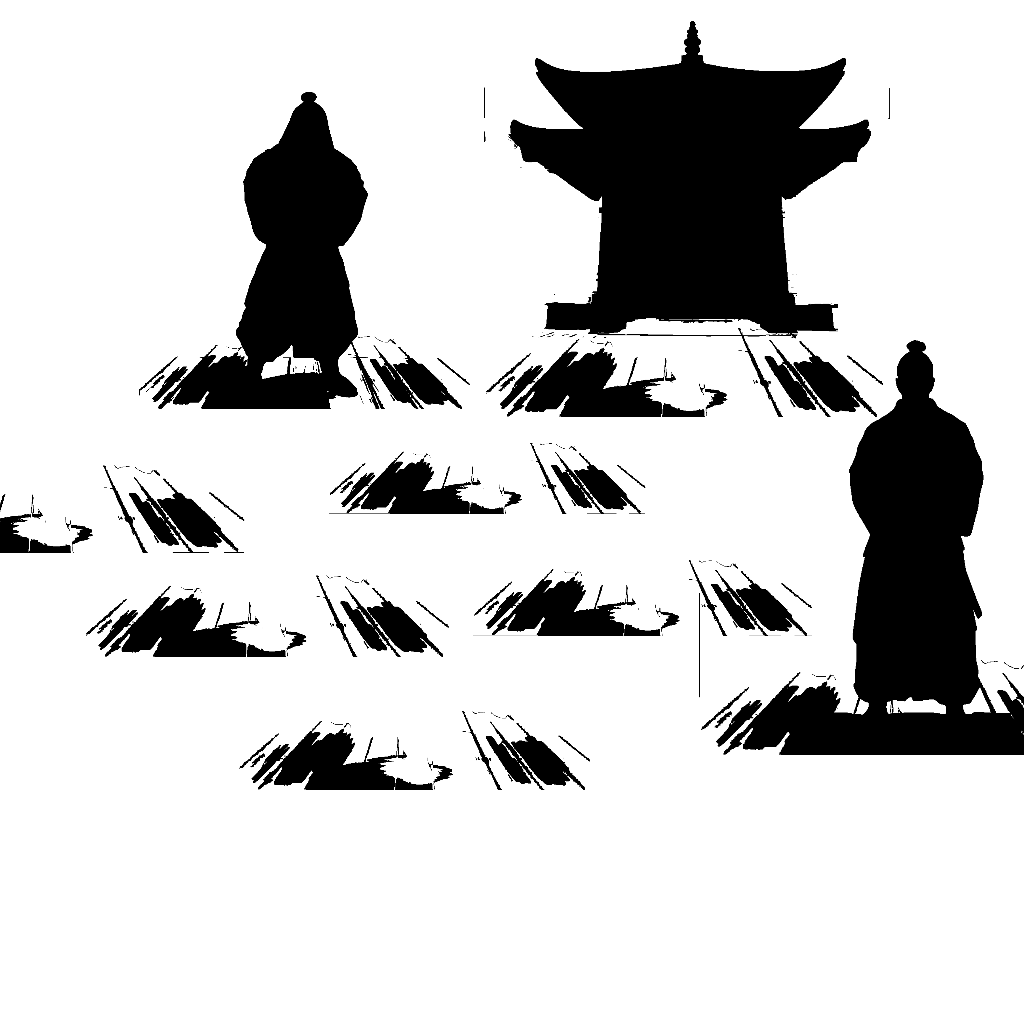
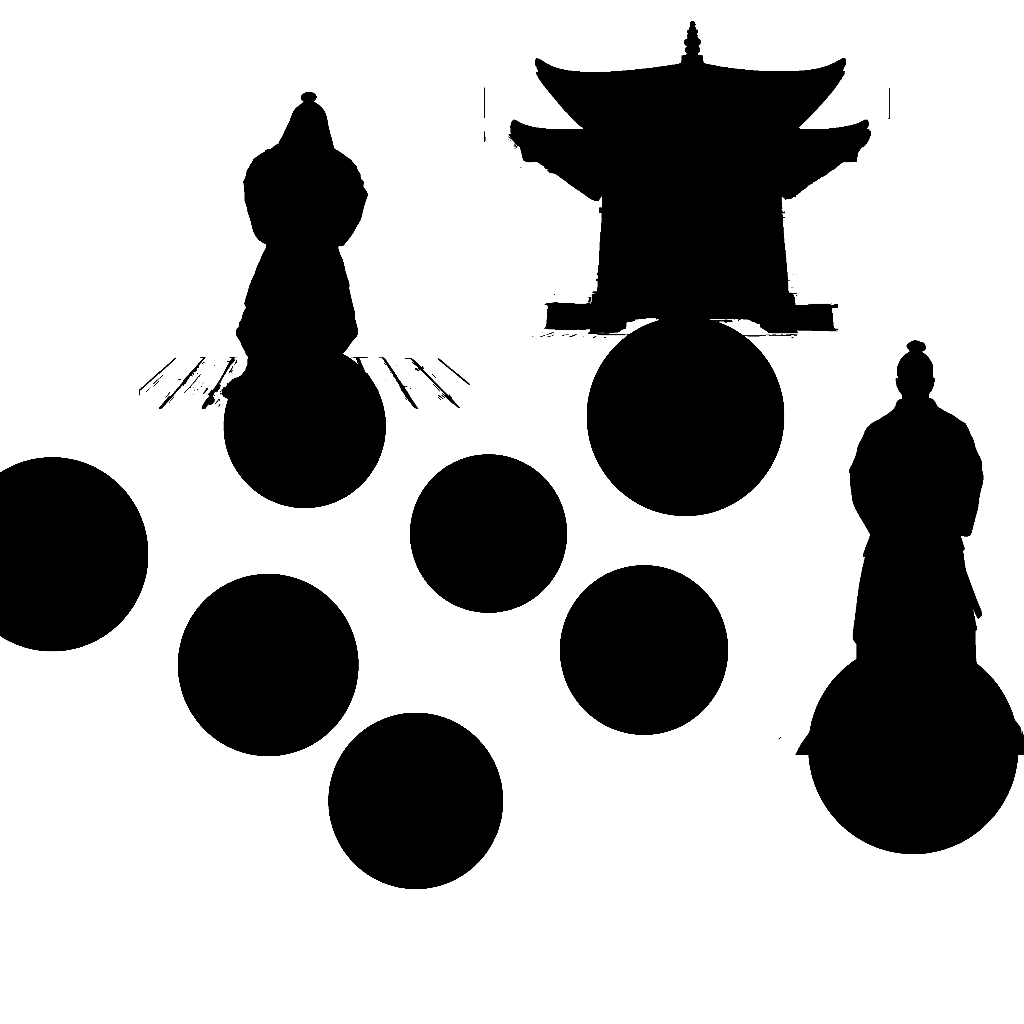
Working on better props

Changed region(s): [[0.0, 0.3125, 1.0, 0.875]]

diff --git a/docs/game/game.js b/docs/game/game.js
@@ -66,9 +66,10 @@ var vector2_prototype = {
 var vector2 = new Object(vector2_prototype);
 
 class ImageStore {
-    constructor (game, path) {
+    constructor (game, path, art) {
         this.game = game;
         this.path = path;
+        this.art = art;
         this.is_loaded = false;
         this.mask_background = null;
         this.mask_foreground = null;
@@ -233,7 +234,7 @@ var gameSystem_prototype = {
         if (key in this.game.art) {
             var info = this.game.art[key];
             var path = this.rootPath + info.img;
-            var store = new ImageStore(this, path);
+            var store = new ImageStore(this, path, info);
             this.canvasImages[key] = store;
             return store;
         }
@@ -274,10 +275,14 @@ var gameSystem_prototype = {
         } else {
             img = store.img;
         }
-        var h = cell.layout.h;
+        function oneof(a,b) {
+            if (a) return a;
+            return b;
+        }
+        var h = cell.layout.h * oneof(store.art.h, 1);
         var w = (h / img.height) * img.width;
         var x = cell.layout.x - (w/2);
-        var y = cell.layout.y - h;
+        var y = cell.layout.y - h + oneof(store.art.dy, 0);
         this.ctx.drawImage(img, x, y, w, h);
     },
 
